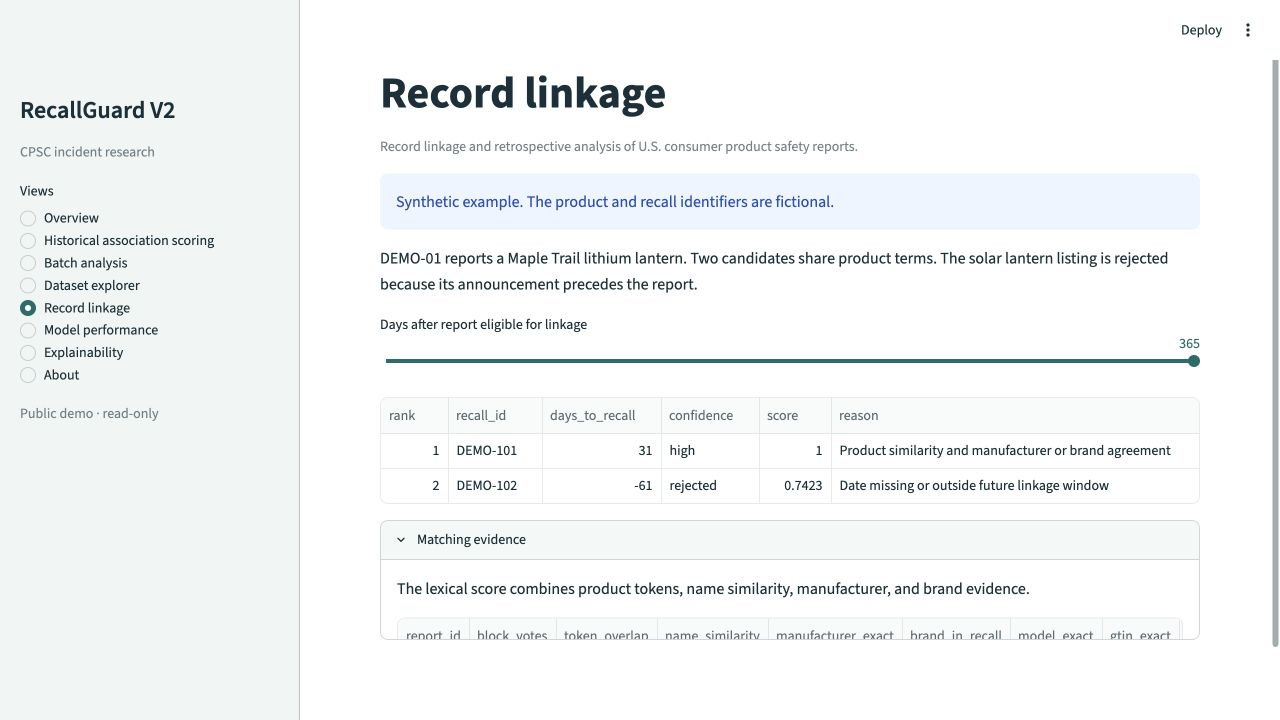
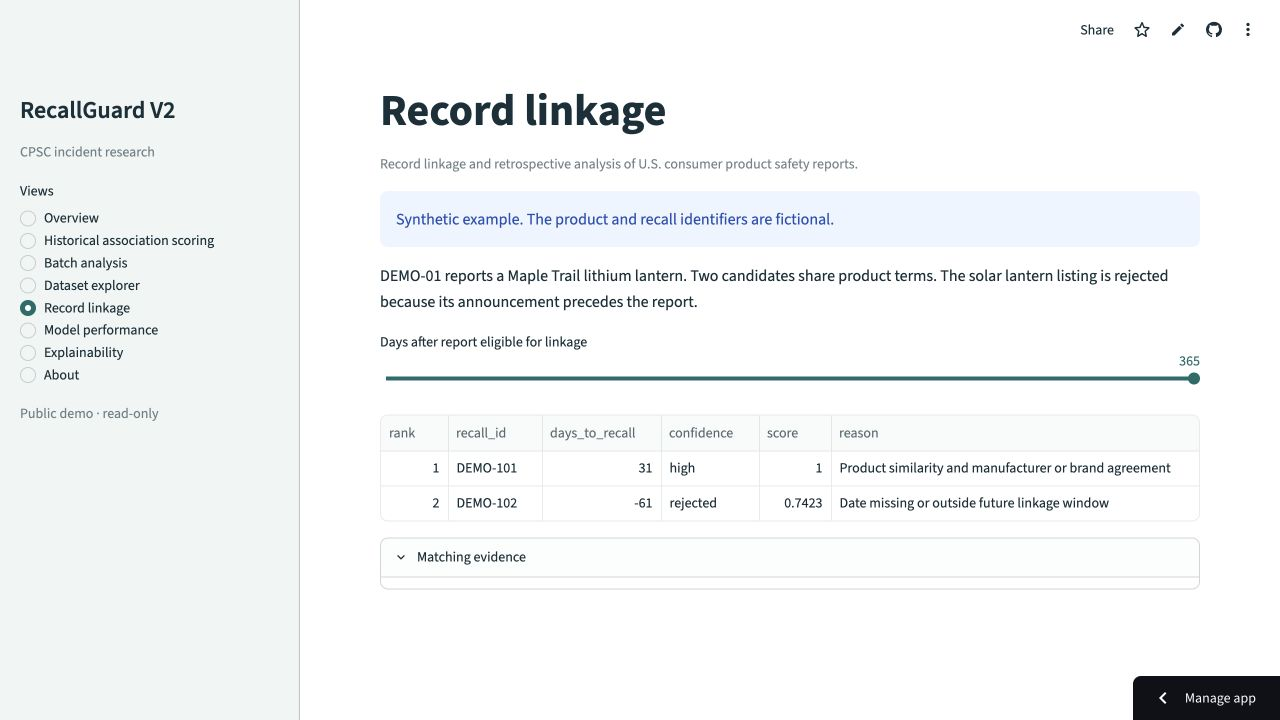
Link the verified public Streamlit preview

diff --git a/README.md b/README.md
@@ -4,7 +4,7 @@ RecallGuard connects U.S. Consumer Product Safety Commission incident reports wi
 
 **70,000 incident reports** · **10,098 retained recall listings** · **1,231,033 candidate pairs** · **168 heuristic links** · **0 independently verified outcomes**
 
-[Run the demo](docs/DEPLOYMENT.md#streamlit-community-cloud) · [Snapshot report](docs/CPSC_SNAPSHOT_REPORT.md) · [Independent review](docs/INDEPENDENT_REVIEW.md)
+[Live Streamlit preview](https://recallguard-v2-portfolio.streamlit.app/) · [Deployment guide](docs/DEPLOYMENT.md#streamlit-community-cloud) · [Snapshot report](docs/CPSC_SNAPSHOT_REPORT.md) · [Independent review](docs/INDEPENDENT_REVIEW.md)
 
 ![RecallGuard public demo showing aggregate CPSC metrics and the data pipeline](screenshots/public-overview.jpg)
 
